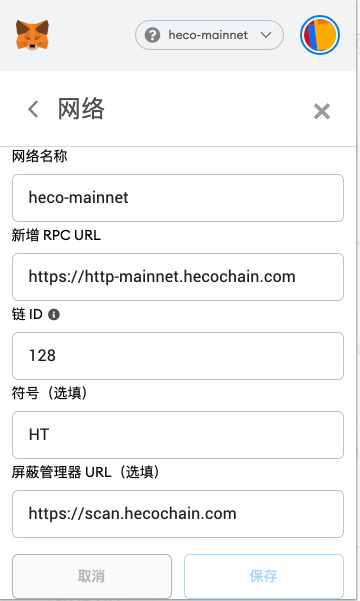
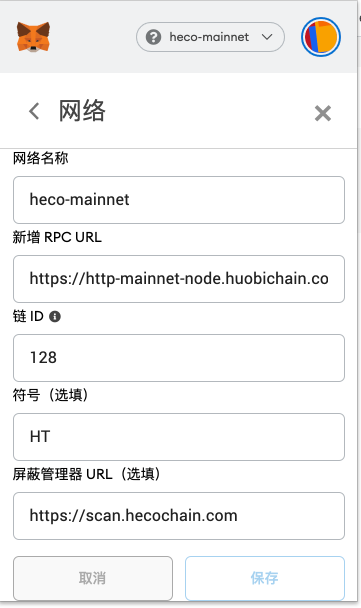
update docs

diff --git a/wallet.md b/wallet.md
@@ -14,14 +14,8 @@
 
 ```
 chainid: 128
-rpc: https://http-mainnet.hecochain.com
+rpc: https://http-mainnet-node.huobichain.com
 scan: https://scan.hecochain.com
-```
-
-国内访问 rpc 可以选择：
-```
-https://http-mainnet-node.huobichain.com
-https://http-mainnet-node1.hecochain.com
 ```
 
 ![metamask](./images/metamask2.png)

diff --git a/en-us/dev/contract.md b/en-us/dev/contract.md
@@ -20,7 +20,7 @@ Compile contract
 Deploy contract to blockchain via wallet such as `MetaMask`.
 1. Set network info in `Metamask`.
 
-![avatar](../../images/metamask1.jpg)
+![avatar](../../images/metamask2_en.png)
 
 2. Back to `Remix`.
 + Swich environment

diff --git a/en-us/wallet.md b/en-us/wallet.md
@@ -14,7 +14,7 @@ download url：https://metamask.io/
 
 ```
 chainid: 128
-rpc: https://http-mainnet.hecochain.com
+rpc: https://http-mainnet-node.huobichain.com
 scan: https://scan.hecochain.com
 ```
 
